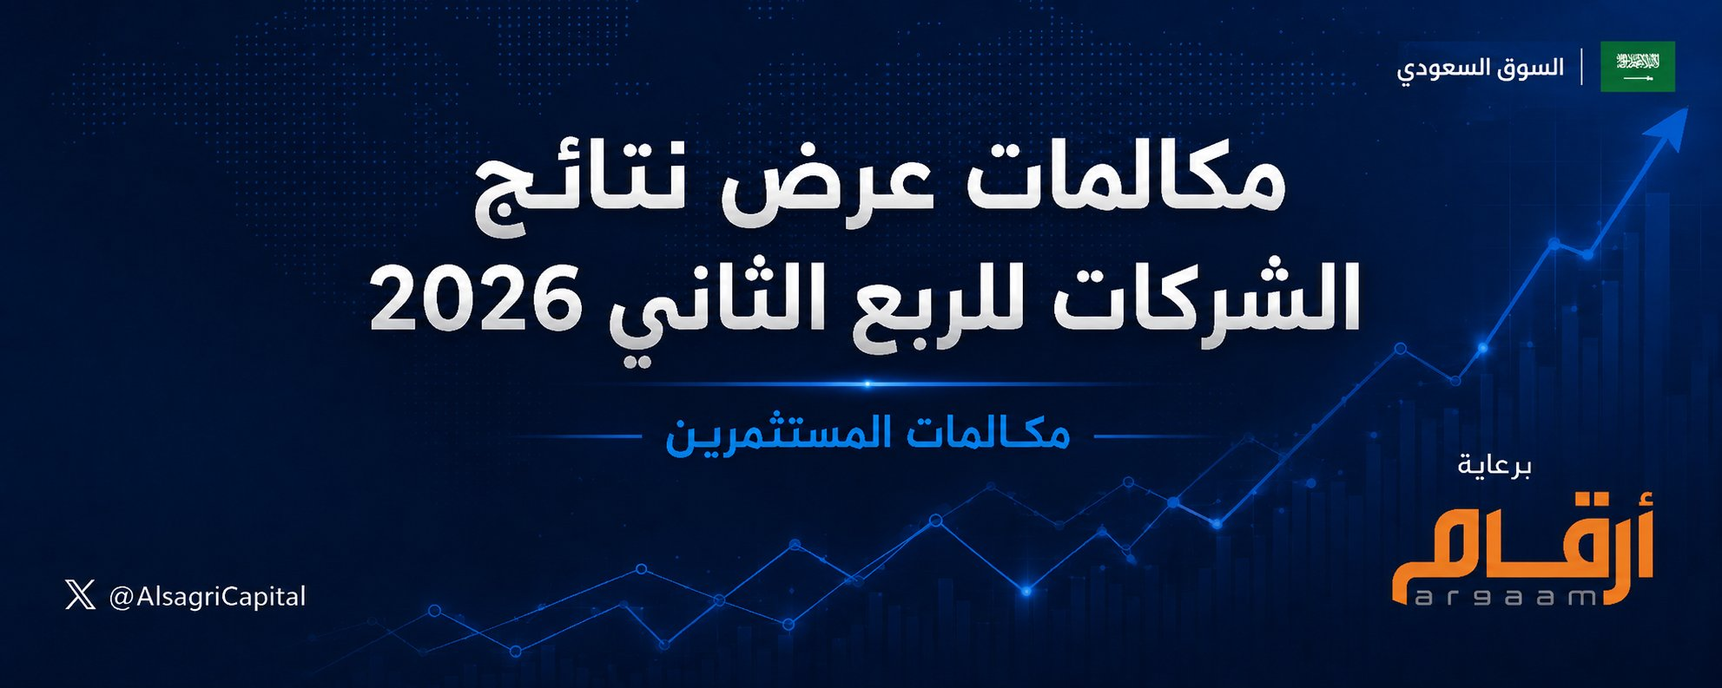
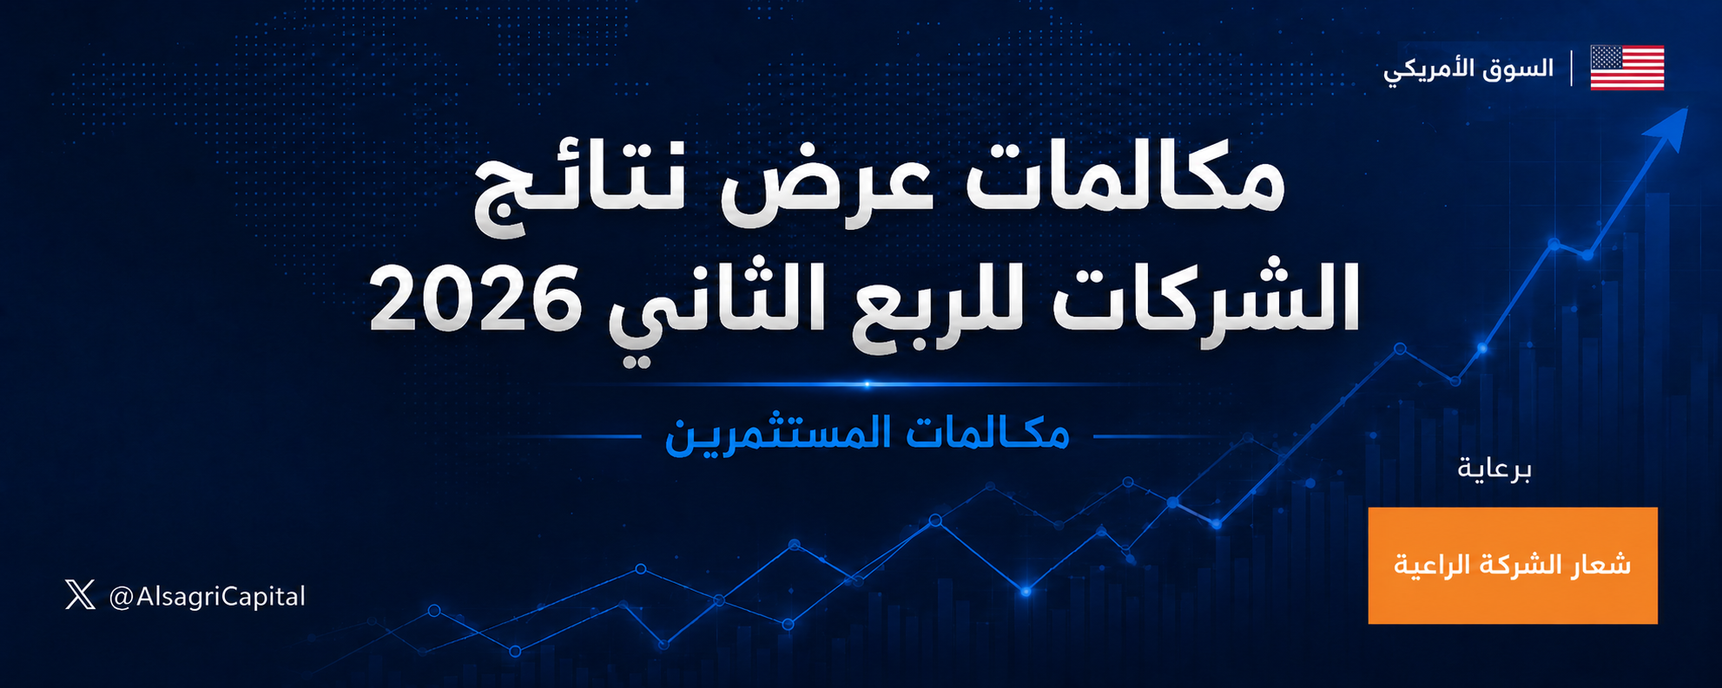
Refine US earnings sponsorship page

diff --git a/sections.jsx b/sections.jsx
@@ -568,7 +568,7 @@ function About() {
 }
 
 /* ── Report card (used inline within Services) ─────────────────── */
-function ReportCard({ r, catLabel, viewCount, compact = false, viewsPlacement = 'body' }) {
+function ReportCard({ r, catLabel, viewCount, compact = false, viewsPlacement = 'body', clickLabel = '' }) {
   const arCat = ({
     earnings: 'مكالمة عرض النتائج',
     brokerage: 'تقرير بحثي',
@@ -640,6 +640,12 @@ function ReportCard({ r, catLabel, viewCount, compact = false, viewsPlacement = 
             </div>
           )}
         </div>
+      )}
+      {reportHref && clickLabel && (
+        <span className="rpt-click-hint">
+          <span>{clickLabel}</span>
+          <span aria-hidden="true">↗</span>
+        </span>
       )}
     </Wrapper>);
 }
@@ -978,7 +984,7 @@ function SponsorshipQ22026() {
         ? 'بنر التغريدة الافتتاحية لسلسلة مكالمات نتائج الشركات مع ظهور الراعي'
         : 'مثال توضيحي لتغريدة مكالمات المستثمرين مع ظهور شعار الراعي',
     exampleImage: isUsaSponsorship
-      ? 'assets/sponsorship/q2-2026-opening-tweet-banner.png?v=opening1'
+      ? 'assets/sponsorship/q2-2026-opening-tweet-banner.png?v=openingusa2'
       : 'assets/sponsorship/q2-2026-example-tweet-enhanced.png?v=q2e',
   };
   const whatsappMessage = isEnglishUsa
@@ -1098,7 +1104,7 @@ function SponsorshipQ22026() {
       code: 'A',
       title: 'Opening tweet cover',
       text: 'The opening tweet launches the series and links together all earnings-call coverage during the season.',
-      image: 'assets/sponsorship/q2-2026-opening-tweet-banner.png?v=opening1',
+      image: 'assets/sponsorship/q2-2026-opening-tweet-banner.png?v=openingusa2',
       alt: 'Illustrative opening tweet cover with sponsor logo placement',
     },
     {
@@ -1112,8 +1118,8 @@ function SponsorshipQ22026() {
       code: 'C',
       title: 'Brand logo in the main call banner',
       text: 'The sponsor logo appears inside the main banner for each published earnings call throughout the season.',
-      image: 'assets/sponsorship/q2-2026-call-banner-almarai.png?v=almarai1',
-      alt: 'Almarai earnings call banner with sponsor logo placement',
+      image: 'assets/sponsorship/q2-2026-call-banner-nvidia.png?v=nvidia1',
+      alt: 'NVIDIA earnings call banner with sponsor logo placement',
       wide: true,
     },
   ] : [
@@ -1121,7 +1127,7 @@ function SponsorshipQ22026() {
       code: 'A',
       title: isUsaSponsorship ? 'غلاف التغريدة الافتتاحية' : 'غلاف التغريدة الافتتاحية المثبتة',
       text: isUsaSponsorship ? 'تنطلق منها السلسلة وتُربط بها جميع تغطيات مكالمات النتائج خلال الموسم.' : 'مثبتة أعلى الحساب طوال الربع، وهي أول ما يراه زائر السلسلة.',
-      image: isUsaSponsorship ? 'assets/sponsorship/q2-2026-opening-tweet-banner.png?v=opening1' : 'assets/sponsorship/q2-2026-example-tweet-enhanced.png?v=q2e',
+      image: isUsaSponsorship ? 'assets/sponsorship/q2-2026-opening-tweet-banner.png?v=openingusa2' : 'assets/sponsorship/q2-2026-example-tweet-enhanced.png?v=q2e',
       alt: isUsaSponsorship ? 'مثال توضيحي لغلاف التغريدة الافتتاحية مع ظهور شعار الراعي' : 'مثال توضيحي لغلاف التغريدة الافتتاحية المثبتة مع ظهور شعار الراعي',
     },
     {
@@ -1135,8 +1141,8 @@ function SponsorshipQ22026() {
       code: 'C',
       title: 'شعار العلامة التجارية في البنر الأساسي للمكالمة',
       text: 'شعار الراعي داخل البنر الأساسي للمكالمة، يظهر مع كل مكالمة منشورة طوال الموسم.',
-      image: isUsaSponsorship ? 'assets/sponsorship/q2-2026-call-banner-almarai.png?v=almarai1' : 'assets/sponsorship/q2-2026-banner-go-telecom.png?v=q2e',
-      alt: isUsaSponsorship ? 'بنر مكالمة نتائج المراعي مع ظهور شعار الراعي' : 'مثال توضيحي لظهور شعار الراعي في البنر الأساسي لمكالمة عرض النتائج',
+      image: isUsaSponsorship ? 'assets/sponsorship/q2-2026-call-banner-nvidia.png?v=nvidia1' : 'assets/sponsorship/q2-2026-banner-go-telecom.png?v=q2e',
+      alt: isUsaSponsorship ? 'بنر مكالمة نتائج إنفيديا مع موضع شعار الشركة الراعية' : 'مثال توضيحي لظهور شعار الراعي في البنر الأساسي لمكالمة عرض النتائج',
       wide: true,
     },
   ];
@@ -1145,8 +1151,8 @@ function SponsorshipQ22026() {
       n: '01',
       title: 'Opening tweet — the series hub',
       text: 'Your logo appears in the opening tweet that launches the series and links together the coverage through September 15, 2026.',
-      badge: '1 placement · expected +300K views',
-      image: 'assets/sponsorship/q2-2026-opening-tweet-banner.png?v=opening1',
+      badge: 'One series opener — the previous season opener achieved 322K views.',
+      image: 'assets/sponsorship/q2-2026-opening-tweet-banner.png?v=openingusa2',
       alt: 'Opening earnings calls tweet with the sponsor logo placement highlighted',
       visual: 'opening',
     },
@@ -1155,8 +1161,8 @@ function SponsorshipQ22026() {
       title: 'Every call banner',
       text: 'Your logo is integrated into the cover image published with every earnings call.',
       badge: '35 placements · 65K average views per call',
-      image: 'assets/sponsorship/q2-2026-call-banner-almarai.png?v=almarai1',
-      alt: 'Almarai earnings call banner showing the sponsor logo placement',
+      image: 'assets/sponsorship/q2-2026-call-banner-nvidia.png?v=nvidia1',
+      alt: 'NVIDIA earnings call banner showing the sponsor logo placement',
       visual: 'banner',
     },
     {
@@ -1173,8 +1179,8 @@ function SponsorshipQ22026() {
       n: '01',
       title: 'التغريدة الافتتاحية — بوابة السلسلة',
       text: 'يظهر شعارك في التغريدة الافتتاحية التي تنطلق منها السلسلة، وتُربط بها التغطيات حتى 15 سبتمبر 2026.',
-      badge: '1 ظهور (متوقع +300 ألف مشاهدة)',
-      image: 'assets/sponsorship/q2-2026-opening-tweet-banner.png?v=opening1',
+      badge: 'افتتاحية واحدة للسلسلة — حققت افتتاحية الموسم السابق 322 ألف مشاهدة.',
+      image: 'assets/sponsorship/q2-2026-opening-tweet-banner.png?v=openingusa2',
       alt: 'التغريدة الافتتاحية لمكالمات النتائج مع تحديد موضع شعار الراعي',
       visual: 'opening',
     },
@@ -1183,8 +1189,8 @@ function SponsorshipQ22026() {
       title: 'بنر كل مكالمة',
       text: 'يُدمج شعارك داخل صورة الغلاف المنشورة مع كل مكالمة نتائج.',
       badge: '35 ظهور (متوسط لكل مكالمة 65 ألف مشاهدة)',
-      image: 'assets/sponsorship/q2-2026-call-banner-almarai.png?v=almarai1',
-      alt: 'بنر مكالمة نتائج المراعي يوضح موضع شعار الراعي',
+      image: 'assets/sponsorship/q2-2026-call-banner-nvidia.png?v=nvidia1',
+      alt: 'بنر مكالمة نتائج إنفيديا يوضح موضع شعار الشركة الراعية',
       visual: 'banner',
     },
     {
@@ -1254,7 +1260,7 @@ function SponsorshipQ22026() {
       { text: isEnglishUsa ? 'One custom promotional post with mutually agreed copy' : 'منشور إعلاني مخصص واحد بصياغة متفق عليها' },
       { text: isEnglishUsa ? 'Mention of the sponsor’s account on X' : 'إشارة إلى حساب الراعي على X' },
       { text: isEnglishUsa ? 'A mutually agreed call to action, such as “Download the app” or “Learn about the service”' : 'عبارة دعوة للفعل متفق عليها، مثل «حمّل التطبيق» أو «تعرف إلى الخدمة»' },
-      { text: isEnglishUsa ? 'Final performance report: views, engagement, and impressions' : 'تقرير أداء نهائي: المشاهدات، التفاعل، والظهور' },
+      { text: isEnglishUsa ? 'Interim performance report after the first 15–20 coverages, followed by a final report at the end of the season' : 'تقرير أداء مرحلي بعد أول 15–20 تغطية، وتقرير نهائي بعد انتهاء الموسم' },
     ],
   };
   const packages = isUsaSponsorship ? [exclusiveUsaPackage] : basePackages;
@@ -1429,7 +1435,7 @@ function SponsorshipQ22026() {
               </article>
               <article className="sp-audience-card reveal d2">
                 <strong>95%</strong>
-                <h3>{isEnglishUsa ? 'Saudi Arabia and GCC' : 'من السعودية والخليج'}</h3>
+                <h3>{isEnglishUsa ? 'of the audience is in Saudi Arabia' : 'من الجمهور في السعودية'}</h3>
                 <p>{isEnglishUsa ? 'The geographic concentration of the available audience data.' : 'النطاق الجغرافي الأبرز ضمن بيانات الجمهور المتاحة.'}</p>
               </article>
               <article className="sp-audience-card reveal d3">
@@ -1563,7 +1569,7 @@ function SponsorshipQ22026() {
                     {item.image ? (
                       <React.Fragment>
                         <img src={item.image} alt={item.alt} loading="lazy" decoding="async" />
-                        <figcaption>{item.visual === 'inside' ? (isEnglishUsa ? 'Sponsor acknowledgement and logo' : 'موضع شكر الراعي وشعاره') : (isEnglishUsa ? 'Sponsor logo here' : 'شعار الراعي هنا')}</figcaption>
+                        <figcaption>{item.visual === 'inside' ? (isEnglishUsa ? 'A real example from Argaam, sponsor of the Saudi earnings series (for illustration)' : 'صورة حقيقية لراعي سلسلة نتائج السوق السعودي أرقام (صورة للتوضيح)') : (isEnglishUsa ? 'Sponsor logo here' : 'شعار الراعي هنا')}</figcaption>
                       </React.Fragment>
                     ) : (
                       <div className="sp-placement-inside-preview">
@@ -1634,6 +1640,7 @@ function SponsorshipQ22026() {
                 catLabel="EARNINGS CALL"
                 compact
                 viewsPlacement="ticker"
+                clickLabel={isEnglishUsa ? 'Click here' : 'انقر هنا'}
                 viewCount={previousExampleViews[r.co]} />
             ))}
           </div>
@@ -1665,6 +1672,13 @@ function SponsorshipQ22026() {
                   </strong>
                   <small>{pkg.priceLabel}</small>
                 </div>
+                {isUsaSponsorship && (
+                  <p className="sp-package-tax-note">
+                    {isEnglishUsa
+                      ? 'Sponsorship consideration: SAR 60,000. VAT is not charged because the service provider was not registered for VAT as of the date this proposal was issued.'
+                      : 'المقابل المالي للرعاية: 60,000 ريال سعودي. لا تُحتسب ضريبة القيمة المضافة على المبلغ لكون مقدم الخدمة غير مسجل في ضريبة القيمة المضافة بتاريخ إصدار هذا العرض.'}
+                  </p>
+                )}
                 {isUsaSponsorship && (
                   <a className="btn sp-package-cta" href="#contact">
                     {isEnglishUsa ? 'Request Sponsorship Proposal' : 'اطلب عرض الرعاية'}

diff --git a/sponsorshipusa-q2-2026.html b/sponsorshipusa-q2-2026.html
@@ -32,7 +32,7 @@
 <link rel="preconnect" href="https://fonts.googleapis.com">
 <link rel="preconnect" href="https://fonts.gstatic.com" crossorigin>
 <link href="https://fonts.googleapis.com/css2?family=IBM+Plex+Sans+Arabic:wght@300;400;500;600;700&family=IBM+Plex+Mono:wght@400;500&family=IBM+Plex+Sans:wght@400;500;600&display=swap" rel="stylesheet">
-<link rel="stylesheet" href="styles.css?v=20260713-sponsorshipusa-order-contact" />
+<link rel="stylesheet" href="styles.css?v=20260714-sponsorshipusa-inside-caption" />
 </head>
 <body data-page="sponsorshipusa">
   <div id="root">
@@ -94,7 +94,7 @@
           <div class="sp-section-head"><span>AUDIENCE · 01</span><h2>من هو الجمهور؟</h2><p>جمهور مهتم فعلياً بالأسواق والاستثمار، ويتابع نتائج الشركات والمحتوى المالي المتخصص، وليس وصولاً عاماً غير مستهدف.</p></div>
           <div class="sp-audience-grid">
             <article class="sp-audience-card"><strong>52 ألف</strong><h3>متابع</h3><p>قاعدة متابعة مالية متخصصة على منصة X.</p></article>
-            <article class="sp-audience-card"><strong>95%</strong><h3>من السعودية والخليج</h3><p>النطاق الجغرافي الأبرز ضمن بيانات الجمهور المتاحة.</p></article>
+            <article class="sp-audience-card"><strong>95%</strong><h3>من الجمهور في السعودية</h3><p>النطاق الجغرافي الأبرز ضمن بيانات الجمهور المتاحة.</p></article>
             <article class="sp-audience-card"><strong>47%</strong><h3>وصول من غير المتابعين</h3><p>المحتوى يصل إلى جمهور جديد خارج قاعدة متابعي الحساب.</p></article>
             <article class="sp-audience-card sp-audience-interests"><span>أبرز الاهتمامات</span><div><em>السوق السعودي</em><em>السوق الأمريكي</em><em>نتائج الشركات</em><em>الاستثمار</em><em>التداول</em></div></article>
           </div>
@@ -122,16 +122,16 @@
           <div class="sp-section-head"><span>BRAND PLACEMENT · 04</span><h2><bdi dir="ltr">71+</bdi> نقطة ظهور أساسية للعلامة، إضافة إلى منشور إعلاني مخصص.</h2></div>
           <div class="sp-placement-overview">
             <article class="sp-placement-row">
-              <div class="sp-placement-row-copy"><span class="sp-placement-number">01</span><div><h3>التغريدة الافتتاحية — بوابة السلسلة</h3><p>يظهر شعارك في التغريدة الافتتاحية التي تنطلق منها السلسلة، وتُربط بها التغطيات حتى 15 سبتمبر 2026.</p><strong class="sp-placement-badge is-exposure">1 ظهور (متوقع +300 ألف مشاهدة)</strong></div></div>
-              <figure class="sp-placement-crop is-opening"><img src="assets/sponsorship/q2-2026-opening-tweet-banner.png?v=opening1" alt="بنر التغريدة الافتتاحية لسلسلة مكالمات النتائج مع ظهور الراعي" loading="lazy"><figcaption>شعار الراعي هنا</figcaption></figure>
+              <div class="sp-placement-row-copy"><span class="sp-placement-number">01</span><div><h3>التغريدة الافتتاحية — بوابة السلسلة</h3><p>يظهر شعارك في التغريدة الافتتاحية التي تنطلق منها السلسلة، وتُربط بها التغطيات حتى 15 سبتمبر 2026.</p><strong class="sp-placement-badge is-exposure">افتتاحية واحدة للسلسلة — حققت افتتاحية الموسم السابق 322 ألف مشاهدة.</strong></div></div>
+              <figure class="sp-placement-crop is-opening"><img src="assets/sponsorship/q2-2026-opening-tweet-banner.png?v=openingusa2" alt="بنر التغريدة الافتتاحية لسلسلة مكالمات نتائج السوق الأمريكي مع موضع شعار الشركة الراعية" loading="lazy"><figcaption>شعار الراعي هنا</figcaption></figure>
             </article>
             <article class="sp-placement-row">
               <div class="sp-placement-row-copy"><span class="sp-placement-number">02</span><div><h3>بنر كل مكالمة</h3><p>يُدمج شعارك داخل صورة الغلاف المنشورة مع كل مكالمة نتائج.</p><strong class="sp-placement-badge is-exposure">35 ظهور (متوسط لكل مكالمة 65 ألف مشاهدة)</strong></div></div>
-              <figure class="sp-placement-crop is-banner"><img src="assets/sponsorship/q2-2026-call-banner-almarai.png?v=almarai1" alt="بنر مكالمة نتائج المراعي يوضح موضع شعار الراعي" loading="lazy"><figcaption>شعار الراعي هنا</figcaption></figure>
+              <figure class="sp-placement-crop is-banner"><img src="assets/sponsorship/q2-2026-call-banner-nvidia.png?v=nvidia1" alt="بنر مكالمة نتائج إنفيديا يوضح موضع شعار الشركة الراعية" loading="lazy"><figcaption>شعار الراعي هنا</figcaption></figure>
             </article>
             <article class="sp-placement-row">
               <div class="sp-placement-row-copy"><span class="sp-placement-number">03</span><div><h3>بداية كل مكالمة — تقديم الراعي كشريك حصري للموسم</h3><p>يظهر شكر الراعي وشعاره بعد مقدمة المكالمة وأسماء الإدارة مباشرة، وقبل بدء النص الكامل.</p><strong class="sp-placement-badge is-exposure">35 ظهور</strong></div></div>
-              <figure class="sp-placement-crop is-inside"><img src="assets/sponsorship/q2-2026-inside-call-sponsor-example.png?v=inside1" alt="مثال لموضع شكر الراعي وشعاره في بداية مكالمة نتائج" loading="lazy"><figcaption>موضع شكر الراعي وشعاره</figcaption></figure>
+              <figure class="sp-placement-crop is-inside"><img src="assets/sponsorship/q2-2026-inside-call-sponsor-example.png?v=inside1" alt="مثال لموضع شكر الراعي وشعاره في بداية مكالمة نتائج" loading="lazy"><figcaption>صورة حقيقية لراعي سلسلة نتائج السوق السعودي أرقام (صورة للتوضيح)</figcaption></figure>
             </article>
             <p class="sp-placement-inclusive">جميع مواضع الظهور الثلاثة مشمولة ضمن باقة الرعاية الحصرية.</p>
           </div>
@@ -159,9 +159,10 @@
                 <li><span class="sp-feat-check"></span><span class="sp-feat-text">منشور إعلاني مخصص واحد بصياغة متفق عليها</span></li>
                 <li><span class="sp-feat-check"></span><span class="sp-feat-text">إشارة إلى حساب الراعي على X</span></li>
                 <li><span class="sp-feat-check"></span><span class="sp-feat-text">عبارة دعوة للفعل متفق عليها، مثل «حمّل التطبيق» أو «تعرف إلى الخدمة»</span></li>
-                <li><span class="sp-feat-check"></span><span class="sp-feat-text">تقرير أداء نهائي: المشاهدات، التفاعل، والظهور</span></li>
+                <li><span class="sp-feat-check"></span><span class="sp-feat-text">تقرير أداء مرحلي بعد أول 15–20 تغطية، وتقرير نهائي بعد انتهاء الموسم</span></li>
               </ul>
               <div class="sp-package-price"><strong class="sp-riyal-price"><span class="sp-currency-text">ر.س</span><span>60,000</span></strong><small>للموسم</small></div>
+              <p class="sp-package-tax-note">المقابل المالي للرعاية: 60,000 ريال سعودي. لا تُحتسب ضريبة القيمة المضافة على المبلغ لكون مقدم الخدمة غير مسجل في ضريبة القيمة المضافة بتاريخ إصدار هذا العرض.</p>
             </article>
           </div>
           <div class="sp-editorial-note"><strong>الاستقلال التحريري</strong><p>يحتفظ الصقري بالاستقلال التحريري الكامل في التغطية والتحليل، بينما يعتمد الراعي مسبقاً استخدام الهوية والرسالة الإعلانية الخاصة به.</p></div>
@@ -178,7 +179,7 @@
 
   <script type="text/babel" src="tweaks-panel.jsx"></script>
   <script type="text/babel" src="data.jsx?v=20260713-sponsorshipusa-exclusive"></script>
-  <script type="text/babel" src="sections.jsx?v=20260713-sponsorshipusa-order-contact"></script>
+  <script type="text/babel" src="sections.jsx?v=20260714-sponsorshipusa-inside-caption"></script>
   <script type="text/babel" src="app.jsx?v=20260713-sponsorshipusa-exclusive"></script>
 </body>
 </html>

diff --git a/styles.css b/styles.css
@@ -1617,6 +1617,24 @@ a.rpt-link:hover { transform: translateY(-3px); border-color: var(--accent); }
 .rpt-compact .rpt-views-badge strong {
   font-size: 11.5px;
 }
+.rpt-click-hint {
+  margin-top: auto;
+  min-height: 38px;
+  padding: 9px 16px;
+  display: flex;
+  align-items: center;
+  justify-content: space-between;
+  gap: 10px;
+  color: var(--navy);
+  font-size: 12px;
+  line-height: 1.3;
+  font-weight: 800;
+  border-top: 1px solid var(--line);
+  background: color-mix(in srgb, var(--sp-gold) 9%, var(--surface));
+}
+.rpt-link:hover .rpt-click-hint {
+  color: var(--accent-2);
+}
 .rpt-title {
   margin-top: 6px; font-size: 18px; line-height: 1.4; font-weight: 500;
   text-wrap: balance;
@@ -6818,7 +6836,7 @@ body[data-page="sponsorshipusa-en"] .sp-audience-card > strong {
 .sp-placement-crop.is-banner > img {
   object-fit: contain;
   object-position: center;
-  background: #eef5ff;
+  background: #050807;
 }
 .sp-placement-crop.is-inside > img {
   object-position: center 64%;
@@ -6852,8 +6870,14 @@ body[data-page="sponsorshipusa-en"] .sp-audience-card > strong {
 }
 .sp-placement-crop.is-inside figcaption {
   left: 50%;
+  bottom: 8px;
+  width: calc(100% - 24px);
+  max-width: 390px;
+  justify-content: center;
+  text-align: center;
+  line-height: 1.45;
   transform: translateX(-50%);
-  white-space: nowrap;
+  white-space: normal;
 }
 .sp-placement-inside-preview {
   height: 100%;
@@ -7222,6 +7246,16 @@ body[data-page="sponsorshipusa-en"] .sp-audience-card > strong {
 }
 .sp-package.is-featured .sp-package-price small {
   color: rgba(255,255,255,.58);
+}
+.sp-package > p.sp-package-tax-note {
+  margin-top: 10px;
+  color: var(--ink-mute);
+  font-size: 11px;
+  line-height: 1.75;
+  font-weight: 500;
+}
+.sp-package.is-featured > p.sp-package-tax-note {
+  color: rgba(255,255,255,.62);
 }
 .sp-package.in .sp-package-price {
   animation: spPriceSettle .7s cubic-bezier(.2,.8,.2,1) .22s both;

diff --git a/sponsorshipusa-q2-2026-en.html b/sponsorshipusa-q2-2026-en.html
@@ -28,7 +28,7 @@
 <link rel="preconnect" href="https://fonts.googleapis.com">
 <link rel="preconnect" href="https://fonts.gstatic.com" crossorigin>
 <link href="https://fonts.googleapis.com/css2?family=IBM+Plex+Sans+Arabic:wght@300;400;500;600;700&family=IBM+Plex+Mono:wght@400;500&family=IBM+Plex+Sans:wght@400;500;600&display=swap" rel="stylesheet">
-<link rel="stylesheet" href="styles.css?v=20260713-sponsorshipusa-order-contact-en" />
+<link rel="stylesheet" href="styles.css?v=20260714-sponsorshipusa-inside-caption-en" />
 </head>
 <body data-page="sponsorshipusa-en">
   <div id="root"></div>
@@ -39,7 +39,7 @@
 
   <script type="text/babel" src="tweaks-panel.jsx"></script>
   <script type="text/babel" src="data.jsx?v=20260713-sponsorshipusa-exclusive-en"></script>
-  <script type="text/babel" src="sections.jsx?v=20260713-sponsorshipusa-order-contact-en"></script>
+  <script type="text/babel" src="sections.jsx?v=20260714-sponsorshipusa-inside-caption-en"></script>
   <script type="text/babel" src="app.jsx?v=20260713-sponsorshipusa-exclusive-en"></script>
 </body>
 </html>
